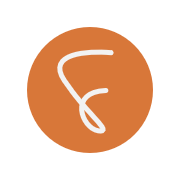
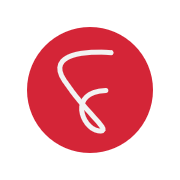
🧪 Customized the theme and removed video playback

diff --git a/src/Pages/home.tsx b/src/Pages/home.tsx
@@ -13,27 +13,21 @@ function HomePage() {
         pageTitle="Home"
         pageDescription="Hi, I’m  Mohammed Fahad, a passionate student who loves turning ideas into impactful digital experiences.
         This is where I share:
-
-            🚀 Projects I’ve built with heart and hustle
-
-            🧠 Experiments that helped me learn and grow
-
-            📚 Notes & Resources I’ve curated for fellow learners
-
+            🚀 Projects I’ve built
             🌱 Things I’m exploring right now in tech, design, and life
 
         I'm always learning, building, and pushing myself to the next level.
         Feel free to look around — and if something inspires you, let’s connect!"
       />
       <div className="flex flex-col min-h-dvh p-8">
-        <video
+        {/* <video
           autoPlay
           muted
           loop
           id="myVideo"
           className="hidden md:block md:fixed right-0 top-0 min-w-full min-h-full -z-5"
           src="noodle.webm"
-        />
+        /> */}
 
         {/* Mobile view */}
         <div className="flex h-full md:hidden flex-col justify-center gap-16">

diff --git a/src/pages/home.tsx b/src/pages/home.tsx
@@ -13,27 +13,21 @@ function HomePage() {
         pageTitle="Home"
         pageDescription="Hi, I’m  Mohammed Fahad, a passionate student who loves turning ideas into impactful digital experiences.
         This is where I share:
-
-            🚀 Projects I’ve built with heart and hustle
-
-            🧠 Experiments that helped me learn and grow
-
-            📚 Notes & Resources I’ve curated for fellow learners
-
+            🚀 Projects I’ve built
             🌱 Things I’m exploring right now in tech, design, and life
 
         I'm always learning, building, and pushing myself to the next level.
         Feel free to look around — and if something inspires you, let’s connect!"
       />
       <div className="flex flex-col min-h-dvh p-8">
-        <video
+        {/* <video
           autoPlay
           muted
           loop
           id="myVideo"
           className="hidden md:block md:fixed right-0 top-0 min-w-full min-h-full -z-5"
           src="noodle.webm"
-        />
+        /> */}
 
         {/* Mobile view */}
         <div className="flex h-full md:hidden flex-col justify-center gap-16">

diff --git a/src/App.tsx b/src/App.tsx
@@ -20,7 +20,7 @@ const BlogPage = lazy(() => import("./pages/blog"));
 
 const Loading = () => (
   <div className="loading-container">
-    <SpinnerDiamond color="#d87739" size={100} />
+    <SpinnerDiamond color="#D42537" size={100} />
   </div>
 );
 

diff --git a/src/app.tsx b/src/app.tsx
@@ -20,7 +20,7 @@ const BlogPage = lazy(() => import("./pages/blog"));
 
 const Loading = () => (
   <div className="loading-container">
-    <SpinnerDiamond color="#d87739" size={100} />
+    <SpinnerDiamond color="#D42537" size={100} />
   </div>
 );
 

diff --git a/src/index.css b/src/index.css
@@ -3,7 +3,7 @@
 :root {
     --main: #f2f2f2;
     --text: #151515;
-    --tertiary: #d87739;
+    --tertiary: #d42537;
 
     --bg-shade: rgba(242, 242, 242, 0.9);
 
